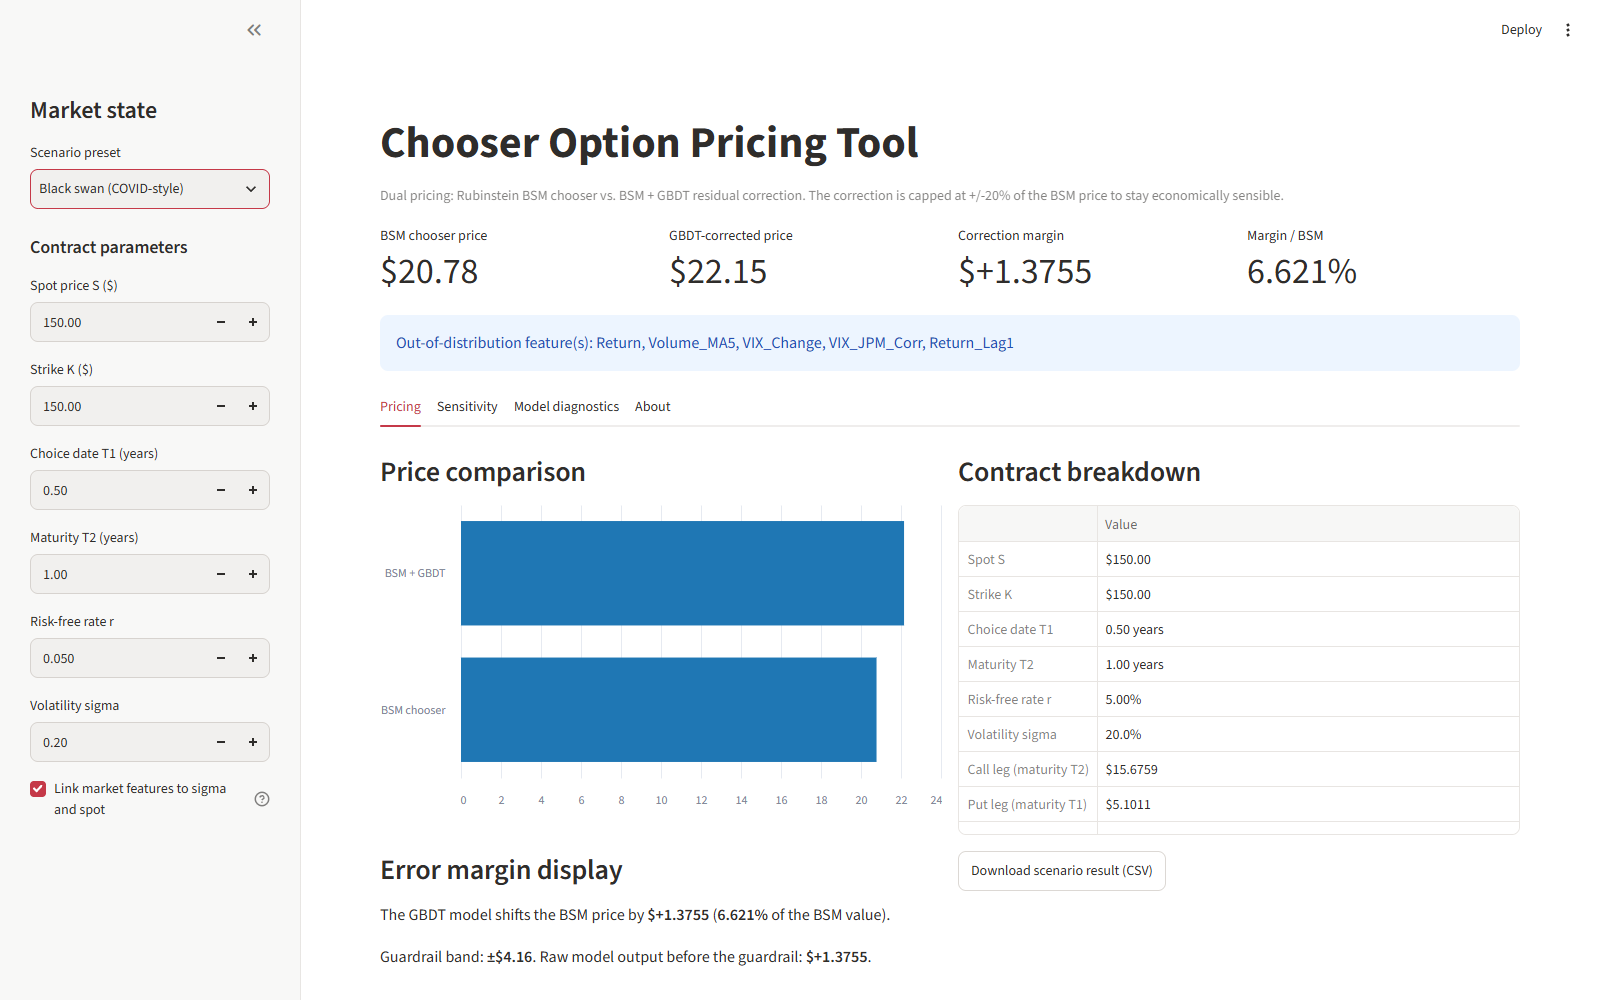
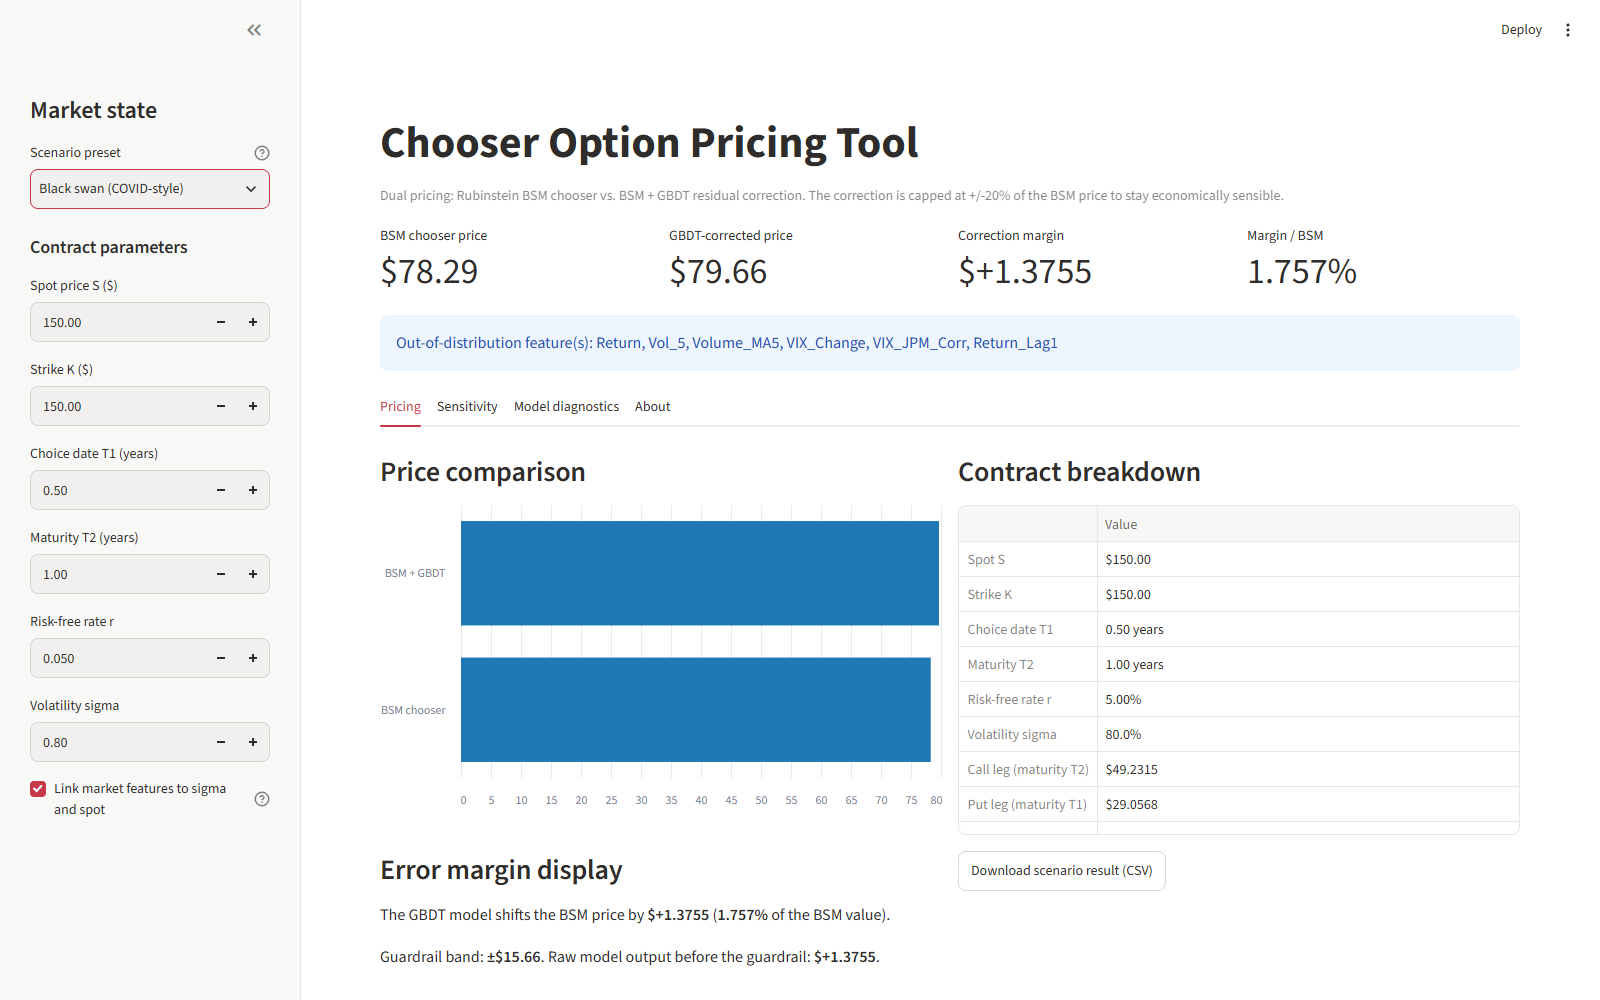
Week 8: link scenario presets to volatility and refresh tool assets
Presets now pin sigma (20% / 50% / 80%) so switching visibly moves the BSM
price; the GBDT correction stays flat between normal and stress, which is the
saturation finding itself. Report, demo script and README updated to match.

diff --git a/Week8_App.py b/Week8_App.py
@@ -53,7 +53,34 @@ PRESETS = {
 # Sidebar - market state
 # ---------------------------------------------------------------------------
 st.sidebar.title("Market state")
-preset_name = st.sidebar.selectbox("Scenario preset", list(PRESETS.keys()), index=0)
+
+# The 10 GBDT features alone do not move the BSM price, so each preset also
+# pins sigma. "Custom" leaves whatever the user has typed in place.
+PRESET_SIGMA = {
+    "Normal market": float(config.sigma),
+    "High-volatility stress": 0.50,
+    "Black swan (COVID-style)": 0.80,
+    "Custom": None,
+}
+
+if "sigma" not in st.session_state:
+    st.session_state["sigma"] = float(config.sigma)
+
+
+def _apply_preset():
+    target = PRESET_SIGMA.get(st.session_state["preset"])
+    if target is not None:
+        st.session_state["sigma"] = target
+
+
+preset_name = st.sidebar.selectbox(
+    "Scenario preset",
+    list(PRESETS.keys()),
+    index=0,
+    key="preset",
+    on_change=_apply_preset,
+    help="Normal 20% / stress 50% / black swan 80% volatility.",
+)
 
 st.sidebar.subheader("Contract parameters")
 S = st.sidebar.number_input("Spot price S ($)", min_value=1.0, value=150.0, step=1.0)
@@ -61,7 +88,7 @@ K = st.sidebar.number_input("Strike K ($)", min_value=1.0, value=float(config.K)
 T1 = st.sidebar.number_input("Choice date T1 (years)", min_value=0.01, value=float(config.T1), step=0.05)
 T2 = st.sidebar.number_input("Maturity T2 (years)", min_value=float(T1) + 0.01, value=float(config.T2), step=0.05)
 r = st.sidebar.number_input("Risk-free rate r", min_value=0.0, max_value=0.30, value=float(config.r), step=0.005, format="%.3f")
-sigma = st.sidebar.number_input("Volatility sigma", min_value=0.01, max_value=2.00, value=float(config.sigma), step=0.01, format="%.2f")
+sigma = st.sidebar.number_input("Volatility sigma", min_value=0.01, max_value=2.00, step=0.01, format="%.2f", key="sigma")
 
 base_features = dict(PRESETS[preset_name])
 linked = st.sidebar.checkbox(

diff --git a/README.md b/README.md
@@ -115,17 +115,19 @@ streamlit run Week8_App.py
 浏览器打开后可以看到四个标签页：
 
 - **Pricing**：输入 S、K、T1、T2、r、σ，得到 BSM 价格、GBDT 修正后价格、修正边际及其占比。
-- **Sensitivity**：拖动波动率与标的价格，查看价格曲线。
+- **Sensitivity**：查看价格随波动率、标的价格变化的曲线，以及修正边际曲线。
 - **Model diagnostics**：模型训练输出区间、特征分位数、越界情况。
 - **About**：方法说明与指标口径。
 
 侧边栏提供三种预设：
 
-| 预设 | 参数 | 特征 |
-|---|---|---|
-| Normal market | S=K=150，T1=0.5，T2=1.0，r=5%，σ=20% | 常规水平 |
-| High-volatility stress | σ=50% | 波动率与 VIX 同步抬升 |
-| Black swan (COVID-style) | S=100，σ=80%，r=1% | 单日急跌、VIX 跳升、相关性反转 |
+| 预设 | 参数 | 特征 | BSM 价格 |
+|---|---|---|---|
+| Normal market | S=K=150，T1=0.5，T2=1.0，r=5%，σ=20% | 常规水平 | 20.78 |
+| High-volatility stress | σ=50% | 波动率与 VIX 同步抬升 | 49.77 |
+| Black swan (COVID-style) | σ=80% | 单日急跌、VIX 跳升、相关性反转 | 78.29 |
+
+预设会同时设定 σ 与 10 个市场特征；选 “Custom” 则保留当前手动输入的取值。
 
 勾选 “Link market features to sigma and spot” 后，特征会随参数联动；取消勾选可手动编辑 10 个特征。
 
